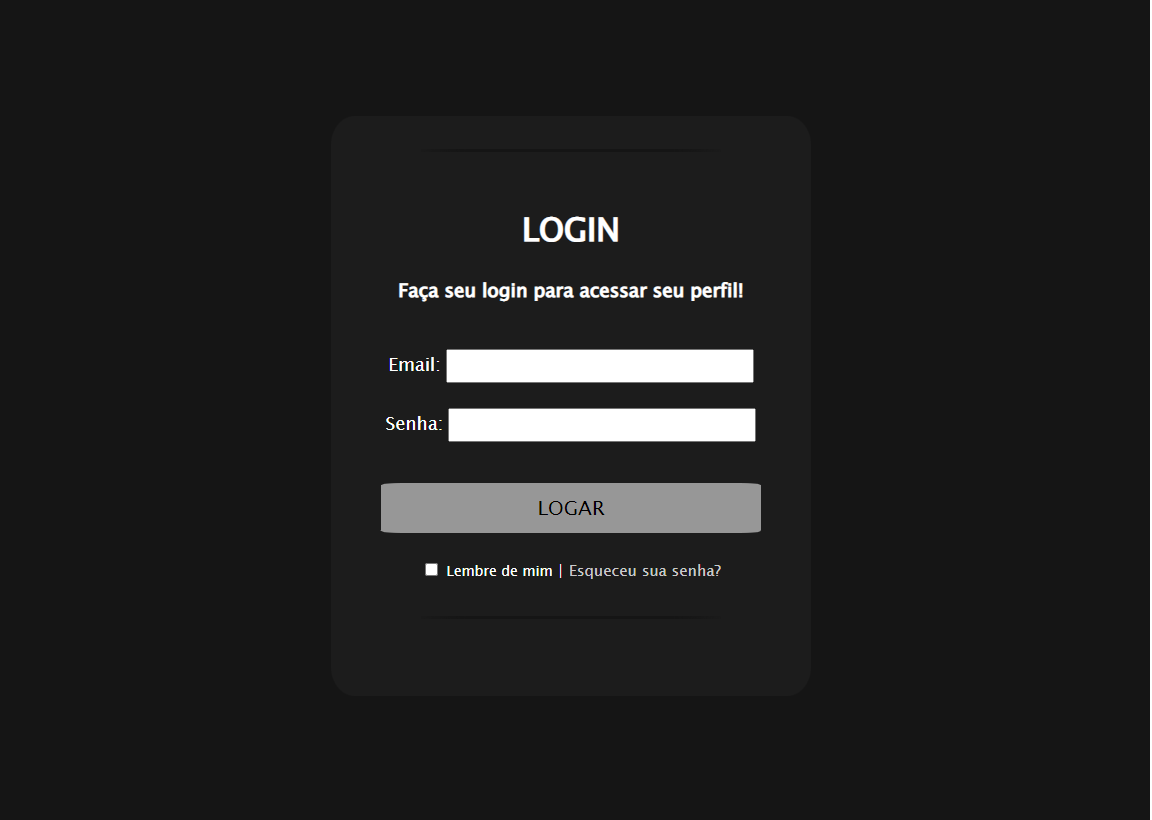
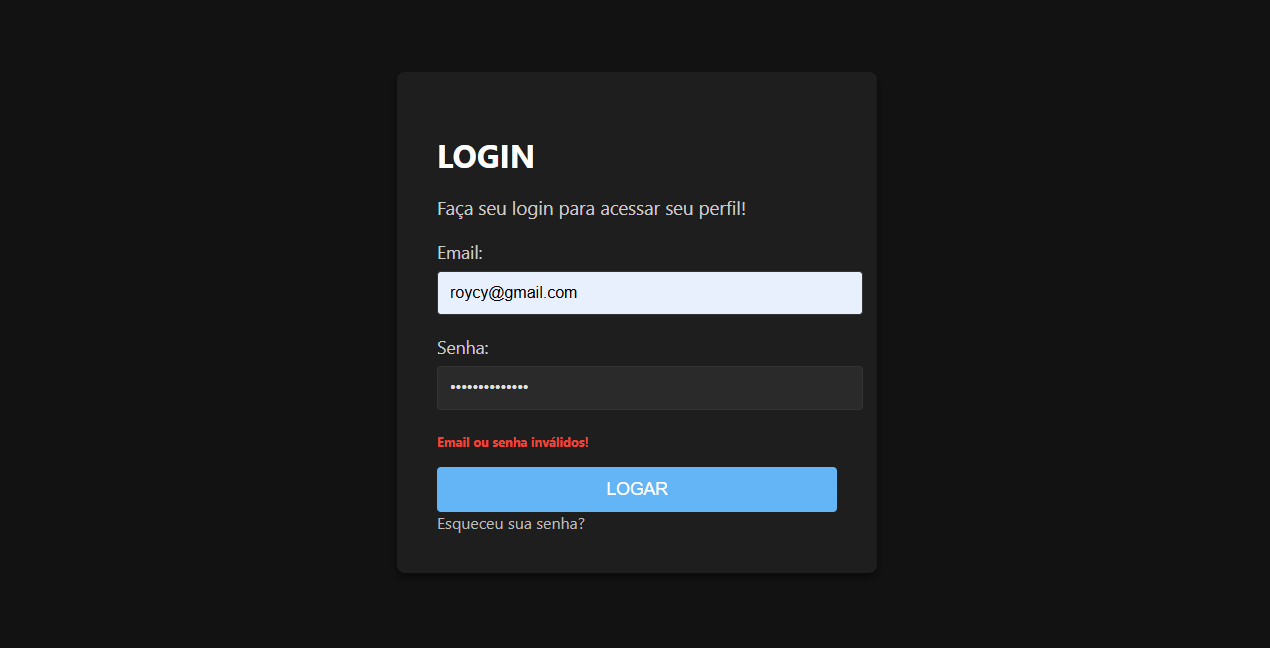
Melhorado design

Changed region(s): [[0.3438, 0.2469, 0.6875, 0.5556], [0.3125, 0.5864, 0.6875, 0.8333], [0.3438, 0.216, 0.4375, 0.2778]]

diff --git a/src/css/style1.css b/src/css/style1.css
@@ -1,75 +1,102 @@
 body {
-    background-color: #151515;
-    color: #fff;
-    margin: 0px;
-
-    font-family: 'Lucida Sans', 'Lucida Sans Regular', 'Lucida Grande', 'Lucida Sans Unicode', Geneva, Verdana, sans-serif;
-
+    background-color: #121212;
+    color: #e0e0e0;
+    margin: 0;
+    font-family: 'Segoe UI', Tahoma, Geneva, Verdana, sans-serif;
     display: flex;
-    flex-direction: row;
     justify-content: center;
     align-items: center;
-
     width: 100vw;
     height: 100vh;
 }
 
 hr {
-	height:3px;
-	border-width:0;
-	background: transparent url("https://imageup.me/images/f666002b-b8e8-4cf7-8d2b-141dc5796908.png") center no-repeat;
+    border: none;
+    height: 1px;
+    background: linear-gradient(to right, transparent, #424242, transparent);
+    margin: 20px 0;
 }
 
 a {
-    font-size: 15px;
+    font-size: 1rem;
     text-decoration: none;
-
-    color: #cacaca;
+    color: #bbbbbb;
+    transition: color 0.3s ease;
 }
+
 a:hover {
-    color: #868686;
+    color: #888888;
 }
 
 label {
-    font-size: 18px;
+    display: block;
+    margin-bottom: 8px;
+    font-size: 1.1rem;
+    color: #ccc;
 }
 
 b {
-    font-size: 10pt;
-    color: red;
+    font-size: 0.8rem;
+    color: #f44336;
 }
 
 .login-painel {
-    border-radius: 5%;
-    background-color: #3030303f;
+    background-color: #1e1e1e;
+    border-radius: 8px;
+    padding: 40px;
+    width: 400px;
+    box-shadow: 0 4px 8px rgba(0, 0, 0, 0.5);
+}
 
-    text-align: center;
+.login-painel h1 {
+    margin-bottom: 10px;
+    color: #fff;
+}
 
-    width: 480px;
-    height: 580px;
+.login-painel h3 {
+    margin-bottom: 20px;
+    color: #ccc;
+    font-weight: 400;
+}
+
+.form-group {
+    margin-bottom: 20px;
+    text-align: left;
+}
+
+.form-group input {
+    width: 100%;
+    padding: 12px;
+    border: 1px solid #333;
+    border-radius: 4px;
+    background-color: #2a2a2a;
+    color: #e0e0e0;
+    font-size: 1rem;
+    transition: border-color 0.3s ease;
+}
+
+.form-group input:focus {
+    border-color: #64b5f6;
+    outline: none;
 }
 
 .logar {
-    background-color: #979797;
-
-    font-size: 20px;
-    font-family: 'Lucida Sans', 'Lucida Sans Regular', 'Lucida Grande', 'Lucida Sans Unicode', Geneva, Verdana, sans-serif;
-
-    width: 380px;
-    height: 50px;
-
-    border-radius: 5%;
+    background-color: #64b5f6;
+    color: #fff;
+    font-size: 1.1rem;
+    padding: 12px 20px;
     border: none;
+    border-radius: 4px;
+    cursor: pointer;
+    width: 100%;
+    transition: background-color 0.3s ease;
 }
+
 .logar:hover {
-    background-color: #505050;
+    background-color: #42a5f5;
 }
 
 .lembrarl {
-    font-size: 14px;
-}
-
-.text_input {
-    width: 300px;
-    height: 28px;
+    font-size: 0.9rem;
+    color: #bbb;
 }

diff --git a/src/js/login.js b/src/js/login.js
@@ -1,22 +1,25 @@
-const form = document.getElementById("login")
+const form = document.getElementById("login");
+const check = document.getElementById("checarconta");
 
-form.addEventListener("submit", function (event) {
-    event.preventDefault()
-    const userEmail = document.getElementById("login_email").value
-    const userPassword = document.getElementById("login_senha").
+form.addEventListener("submit", async (event) => {
+    event.preventDefault();
+    const userEmail = document.getElementById("login_email").value;
+    const userPassword = document.getElementById("login_senha").value;
 
-    console.log(document.cookie)
+    try {
+        const response = await fetch('./src/database/accounts.json');
+        if (!response.ok) {
+            throw new Error(`HTTP error! status: ${response.status}`);
+        }
+        const data = await response.json();
 
-    const check = document.getElementById("checarconta")
-    fetch('./src/database/accounts.json').then(data => {
-        data.json().then(data => {
-            if (data.hasOwnProperty(userEmail)) {
-                if (data[userEmail].password == userPassword) {
-                    window.location.href = "./src/pages/checked.html"
-                } else {
-                    return check.innerHTML = "<b>Email ou senha inválidos!</b>"
-                }
-            }
-        })
-    })
-})
+        if (data.hasOwnProperty(userEmail) && data[userEmail].password === userPassword) {
+            window.location.href = "./src/pages/checked.html";
+        } else {
+            check.innerHTML = "<b>Email ou senha inválidos!</b>";
+        }
+    } catch (error) {
+        console.error("Erro ao processar login:", error);
+        check.innerHTML = "<b>Erro ao processar login. Tente novamente.</b>";
+    }
+});

diff --git a/index.html b/index.html
@@ -2,42 +2,30 @@
 <html lang="pt-br">
 <head>
     <meta charset="UTF-8">
-    <meta http-equiv="X-UA-Compatible" content="IE=edge">
     <meta name="viewport" content="width=device-width, initial-scale=1.0">
     <title>Login</title>
-
     <link rel="stylesheet" href="./src/css/style1.css">
     <link rel="shortcut icon" href="./src/img/iconCadeado.png" type="image/x-icon">
-
 </head>
 <body>
     <div class="login-painel">
-        <br>
-        <hr>
-        <br>
-
         <h1>LOGIN</h1>
         <h3>Faça seu login para acessar seu perfil!</h3>
-        <br>
 
         <form id="login">
-            <label>Email:</label>
-            <input type="email" id="login_email"><br>
-            <br>
-            <label>Senha:</label>
-            <input type="password" id="login_senha"><br>
+            <div class="form-group">
+                <label for="login_email">Email:</label>
+                <input type="email" id="login_email" name="login_email" required>
+            </div>
+            <div class="form-group">
+                <label for="login_senha">Senha:</label>
+                <input type="password" id="login_senha" name="login_senha" required>
+            </div>
             <p id="checarconta"></p>
-            <br>
-            <input type="submit" class="logar" value="LOGAR"><br>
-            <br>
+            <button type="submit" class="logar">LOGAR</button>
             <a href="#">Esqueceu sua senha?</a>
         </form>
-
-        <br>
-        <hr>
-        <br>
     </div>
-
     <script src="./src/js/login.js"></script>
 </body>
 </html>

diff --git a/src/css/style2.css b/src/css/style2.css
@@ -1,17 +1,16 @@
 body {
     background-image: url("https://i.makeagif.com/media/12-04-2018/IxHq7M.gif");
-    font-family: 'Lucida Sans', 'Lucida Sans Regular', 'Lucida Grande', 'Lucida Sans Unicode', Geneva, Verdana, sans-serif;
-    
+    font-family: 'Segoe UI', Tahoma, Geneva, Verdana, sans-serif; 
     background-repeat: no-repeat;
-    background-position: center; 
+    background-position: center;
     background-size: cover;
-
-    height: 100vh;
+    min-height: 100vh; 
     margin: 0;
-
+    display: flex;
+    flex-direction: column; 
     justify-content: center;
     align-items: center;
     text-align: center;
-
-    color: #fff;
+    color: #e0e0e0; 
+    overflow: hidden;
 }
